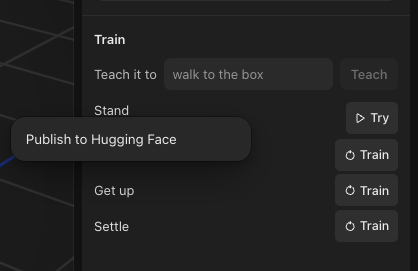
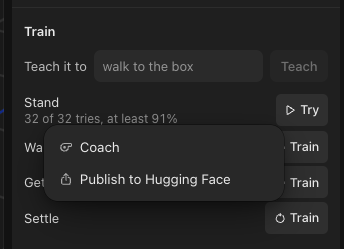
Show Coach beside Publish in the skill menu screenshots
The runner asked for every help article that covers a file this change edits
to be read against the new code. A ready Motor Kit skill's right-click menu now
lists Coach above Publish to Hugging Face, so the Publish article's menu
screenshot no longer matched. It is recaptured and its alt text names both
items.

The coach article's two menu screenshots had been taken without Publish
in the menu. They are recaptured from the real menu, with real Arena runs.
The other 16 flagged articles were checked step by step and still hold.

This revision keeps the earlier fix: SimulatePanel builds the Publish entry
as on main, so the copy budget no longer counts it as moved.

diff --git a/src/components/SimulatePanel.tsx b/src/components/SimulatePanel.tsx
@@ -1,5 +1,5 @@
 import React, { useState } from 'react';
-import { ContextMenu, ContextMenuEntry, deleteEntry, useScrollFade } from '../design-system';
+import { ContextMenu, ContextMenuEntry, deleteEntry, ShareIcon, useScrollFade } from '../design-system';
 import type { PolicyRecord, RobotAnimation, ScenePart } from '../types/robotics';
 import { withVelocity } from '../sim/driveAccess';
 import type { Simulation } from '../sim/useSimulation';
@@ -20,7 +20,7 @@ import type { CaseCompare } from '../workspace/useCaseCompare';
 import type { CaseExplore } from '../workspace/useCaseExplore';
 import { SimControls } from './simulate/SimControls';
 import { TrainSection, type CoachSend } from './simulate/TrainSection';
-import { skillMenuItems } from './simulate/skillMenu';
+import { coachMenuItems } from './simulate/skillMenu';
 
 interface SimulatePanelProps {
   sim: Simulation;
@@ -54,6 +54,12 @@ function useWalkTeaching(skills: SceneSkills, onTeach: SimulatePanelProps['onTea
   return { velocityReady: skills.velocityReady, teachWalk, walkTraining: walkRow?.state.kind === 'training' };
 }
 
+function publishEntries(row: SkillRow, publish: ((row: SkillRow) => void) | null): ContextMenuEntry[] {
+  if (!publish || row.state.kind !== 'ready') return [];
+
+  return [{ label: 'Publish to Hugging Face', icon: <ShareIcon className="w-4 h-4" />, onSelect: () => publish(row) }];
+}
+
 export const SimulatePanel: React.FC<SimulatePanelProps> = (props) => {
   const { sim, training, cases, rig, parts, animations, policies, onSelectParts, onDeletePolicy } = props;
   const { skills, onTeach, share } = props;
@@ -69,11 +75,10 @@ export const SimulatePanel: React.FC<SimulatePanelProps> = (props) => {
     onStop: skills.stop,
     onSnapshot: (row: SkillRow, ref: SnapshotRef) => void skills.playSnapshot(row, ref),
     onMenu: (e: React.MouseEvent, row: SkillRow) => {
-      const items = skillMenuItems(row, {
-        coach: skills.coach,
-        coaches: !!props.onCoach,
-        publish: props.onPublishSkill,
-      });
+      const items = [
+        ...coachMenuItems(row, { coach: skills.coach, coaches: !!props.onCoach }),
+        ...publishEntries(row, props.onPublishSkill),
+      ];
 
       e.preventDefault();
 

diff --git a/src/components/simulate/skillMenu.tsx b/src/components/simulate/skillMenu.tsx
@@ -1,16 +1,15 @@
-import { CoachIcon, CompareIcon, ShareIcon, UndoIcon, type ContextMenuEntry } from '../../design-system';
+import { CoachIcon, CompareIcon, UndoIcon, type ContextMenuEntry } from '../../design-system';
 import type { SkillRow } from '../../skills/skillRows';
 import { canCoach, type SkillCoachState } from '../../workspace/useSkillCoach';
 
 const ic = 'w-4 h-4';
 
-export interface SkillMenuOptions {
+export interface CoachMenuOptions {
   coach: SkillCoachState;
   coaches: boolean;
-  publish: ((row: SkillRow) => void) | null;
 }
 
-function coachItems(row: SkillRow, { coach, coaches }: SkillMenuOptions): ContextMenuEntry[] {
+export function coachMenuItems(row: SkillRow, { coach, coaches }: CoachMenuOptions): ContextMenuEntry[] {
   const items: ContextMenuEntry[] =
     coaches && canCoach(row)
       ? [{ label: 'Coach', icon: <CoachIcon className={ic} />, onSelect: () => coach.start(row) }]
@@ -27,14 +26,4 @@ function coachItems(row: SkillRow, { coach, coaches }: SkillMenuOptions): Contex
     { label: 'Compare', icon: <CompareIcon className={ic} />, onSelect: () => void coach.replay(row) },
     ...undo,
   ];
-}
-
-export function skillMenuItems(row: SkillRow, options: SkillMenuOptions): ContextMenuEntry[] {
-  const { publish } = options;
-  const shared: ContextMenuEntry[] =
-    publish && row.state.kind === 'ready'
-      ? [{ label: 'Publish to Hugging Face', icon: <ShareIcon className={ic} />, onSelect: () => publish(row) }]
-      : [];
-
-  return [...coachItems(row, options), ...shared];
 }

diff --git a/site/content/help/publish-a-skill-to-hugging-face.md b/site/content/help/publish-a-skill-to-hugging-face.md
@@ -35,7 +35,7 @@ Publishing works in the desktop app. The repo is always public, and only a skill
 2. In the **Simulate** tab, find the ready skill under **Train**. A ready row shows its Arena result, such as "32 of 32 tries".
 3. Right-click the row and choose **Publish to Hugging Face**.
 
-![The Stand row's right-click menu with Publish to Hugging Face](/help/publish-a-skill-to-hugging-face/menu.png)
+![The Stand row's right-click menu with Coach and Publish to Hugging Face](/help/publish-a-skill-to-hugging-face/menu.png)
 
 4. When the toast says "Published to" and the repo's name, click **Open** to see it on the Hub.
 
